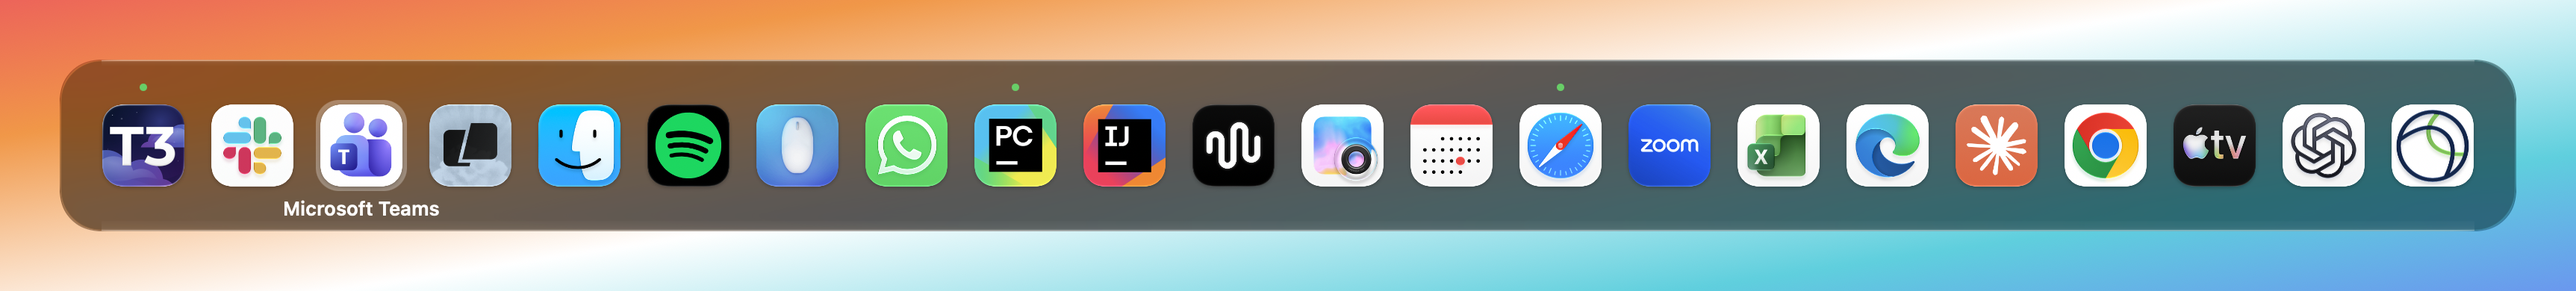
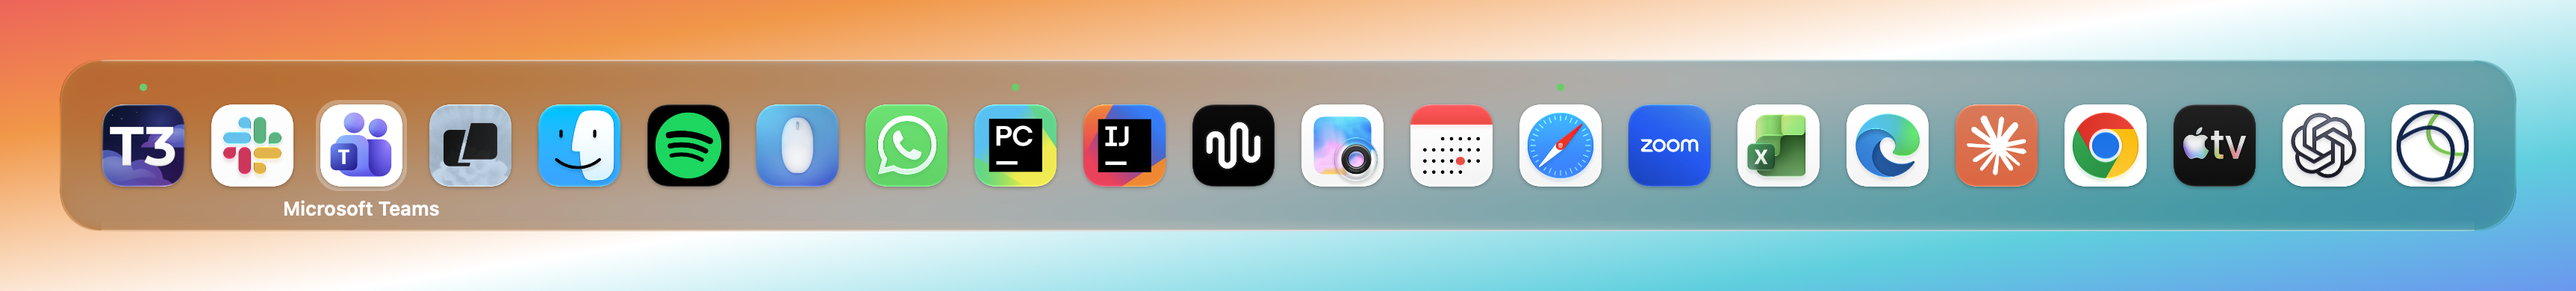
style(app-switcher): match the native switcher glass tone

diff --git a/app-switcher/main.swift b/app-switcher/main.swift
@@ -26,9 +26,9 @@ let dotCenterFromCellTop: CGFloat = nameBandHeight / 2 + 3
 /// Mirrored bands above and below, so the icon lands exactly in the middle of the cell.
 let cellHeight: CGFloat = iconSize + 2 * (nameBandHeight + nameTopSpacing)
 let panelCornerRadius: CGFloat = 28
-/// Regular glass renders lighter than the backdrop and tintColor only brightens it further; the 1pt rim is left undimmed.
-/// Tuned so the body lands ~5 above the backdrop, like the native switcher's 42,45,52 over a 37,40,45 desktop.
-let panelDimmingColor = NSColor.black.withAlphaComponent(0.24)
+/// Clear glass keeps the backdrop's colour where regular glass washes it out; this pulls it down to the native
+/// switcher's body, roughly 0.63 * backdrop + 19 per channel. The 1pt rim is left undimmed.
+let panelDimmingColor = NSColor.black.withAlphaComponent(0.14)
 /// Measured off the native switcher, one row at a time from the edge inward. [row from the edge] -> white alpha
 let topRimAlphas: [CGFloat] = [0.34, 0.07, 0.03, 0.015]
 let bottomRimAlphas: [CGFloat] = [0.35, 0.09, 0.055, 0.045, 0.035, 0.03, 0.02]
@@ -315,7 +315,7 @@ final class SwitcherPanel: NSPanel {
     private func buildGlassView(size: NSSize) -> NSGlassEffectView {
         let glass = NSGlassEffectView(frame: NSRect(origin: .zero, size: size))
 
-        glass.style = .regular
+        glass.style = .clear
         glass.cornerRadius = panelCornerRadius
 
         return glass
